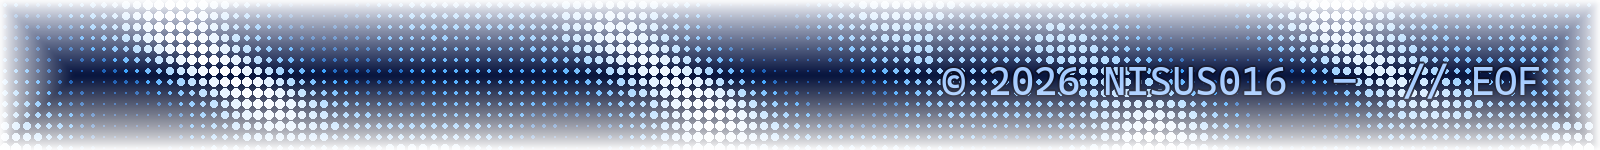
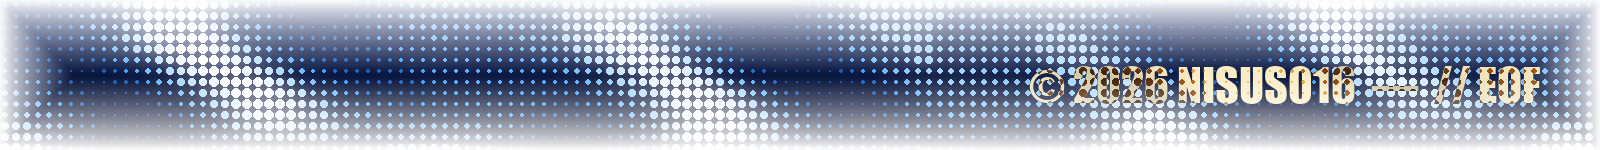
style: Impact negative poster type with bloom, drop dividers

diff --git a/README.md b/README.md
@@ -31,8 +31,6 @@ const nisus016 = {
 };
 ```
 
-<img width="100%" src="assets/divider-matrix.png" alt="divider"/>
-
 ## 🛠 Tech Stack
 
 <p>
@@ -44,8 +42,6 @@ const nisus016 = {
   <img src="https://img.shields.io/badge/Sims_%26_Systems-050A30?style=for-the-badge&logoColor=2E9DFF" />
   <img src="https://img.shields.io/badge/Jupyter-050A30?style=for-the-badge&logo=jupyter&logoColor=F37626" />
 </p>
-
-<img width="100%" src="assets/divider-matrix.png" alt="divider"/>
 
 ## 📦 Selected Work
 
@@ -59,8 +55,6 @@ const nisus016 = {
 | [MARC-MAZE-SIM](https://github.com/NISUS016/MARC-MAZE-SIM) | Maze / simulation systems | Python |
 | [NOTEKRAFT](https://github.com/NISUS016/NOTEKRAFT) + [general-notes](https://github.com/NISUS016/general-notes) | Notes → interactive websites | HTML |
 | [PROMPTDEC](https://github.com/NISUS016/PROMPTDEC) | Prompt tooling / decoding ideas | TypeScript |
-
-<img width="100%" src="assets/divider-matrix.png" alt="divider"/>
 
 ## 📊 Stats
 
